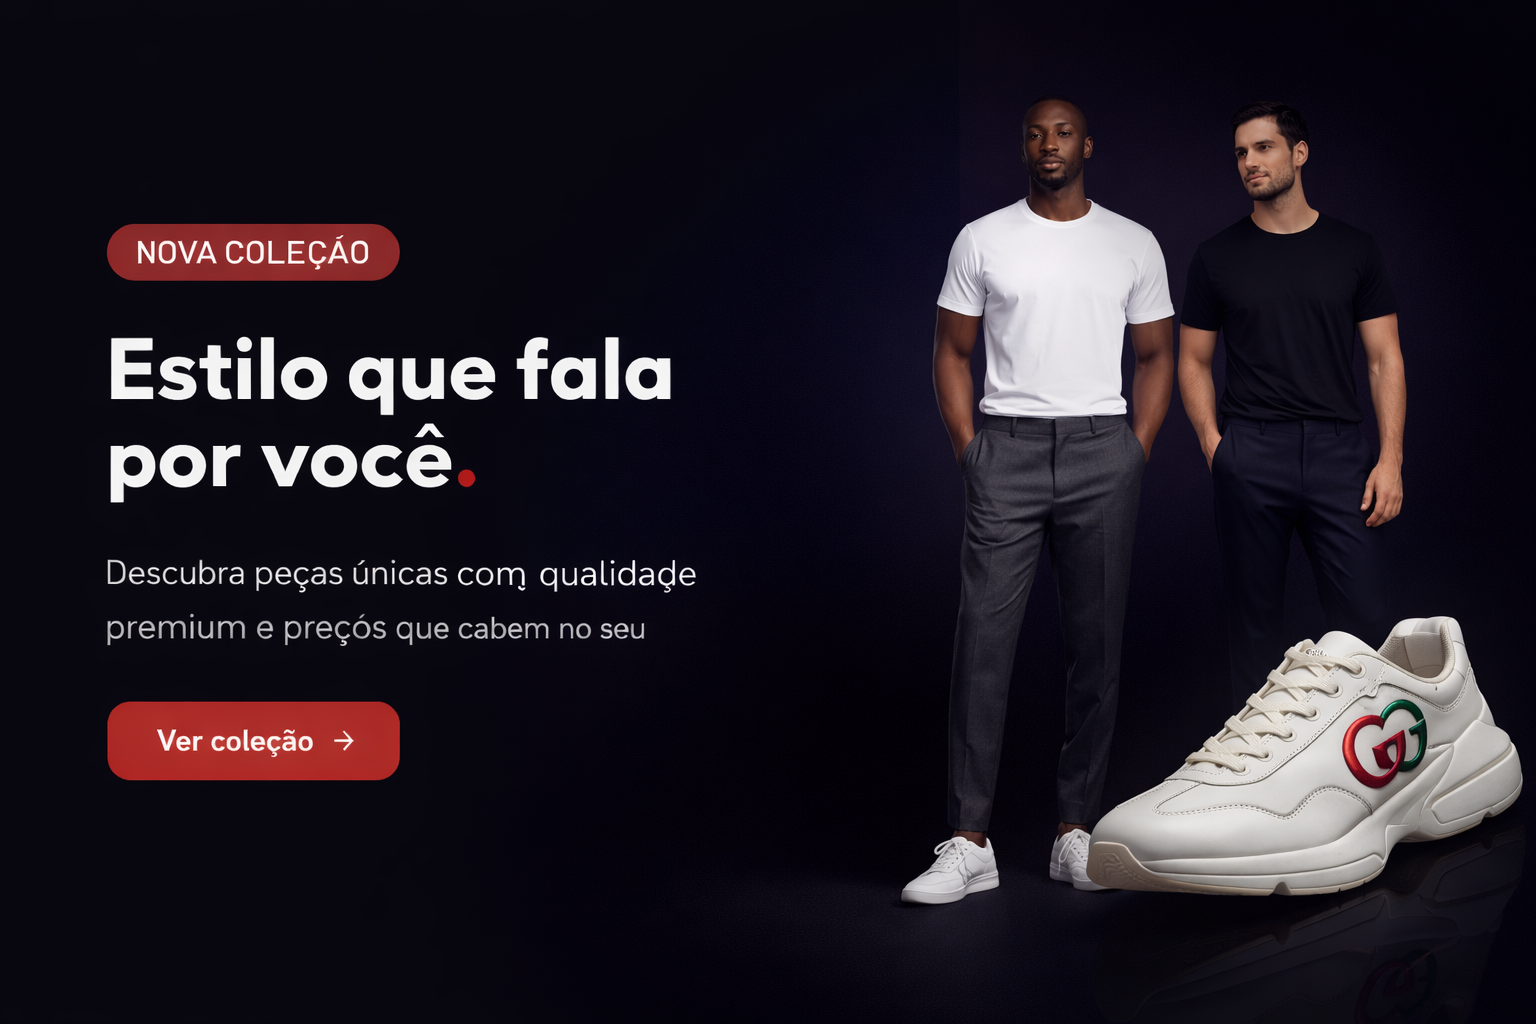
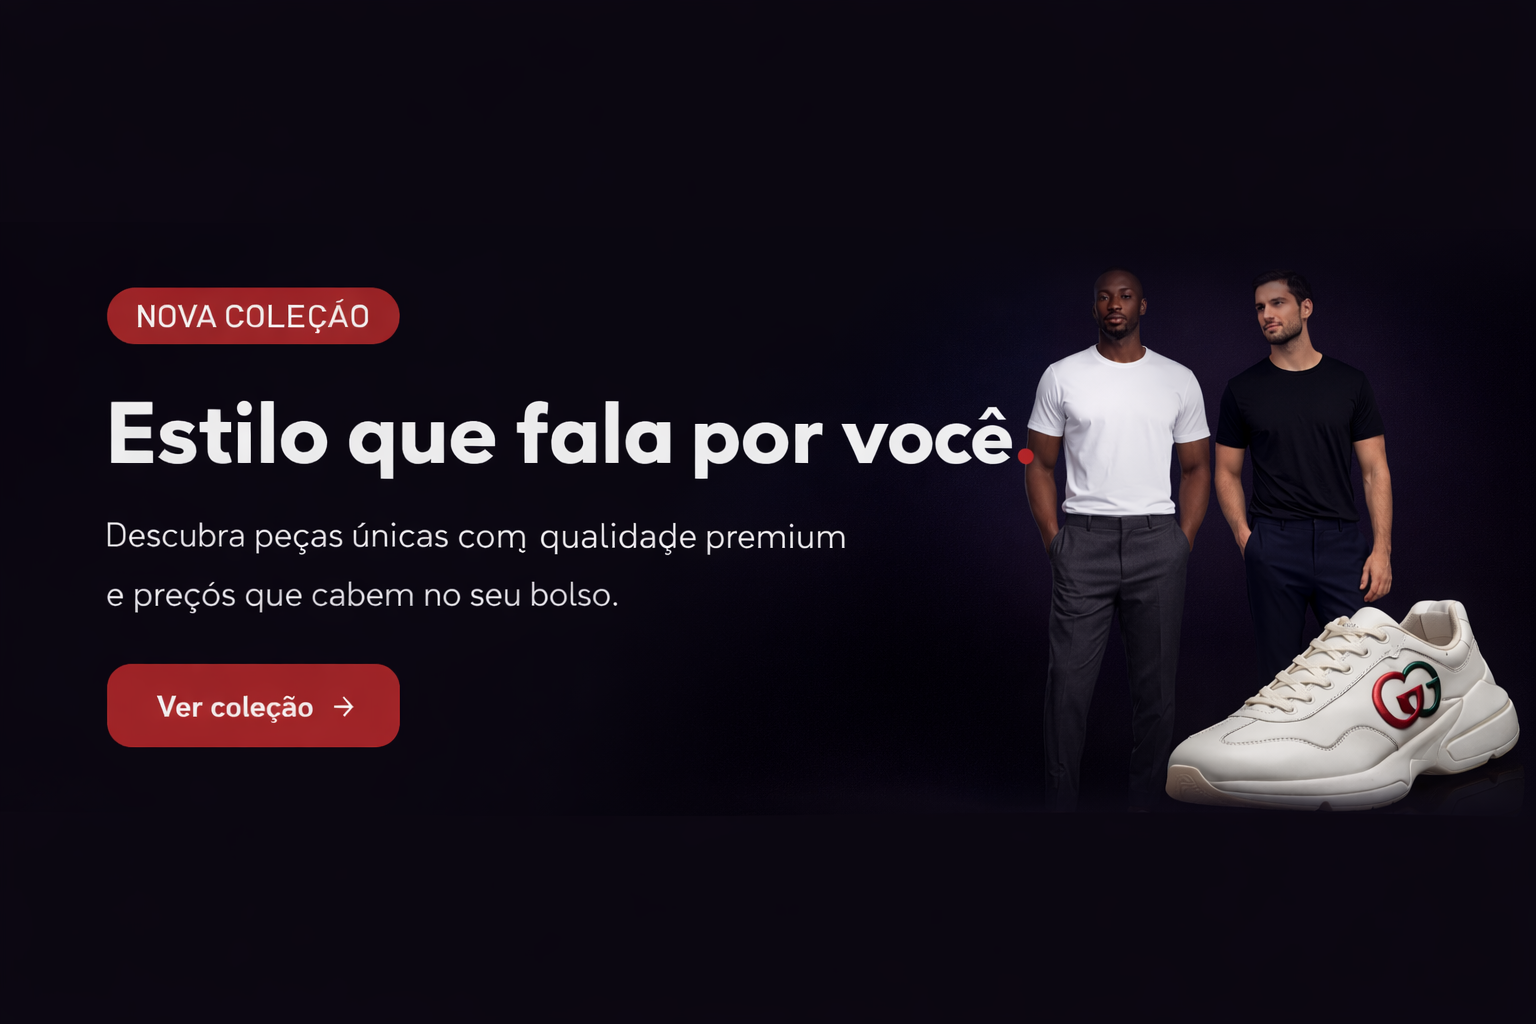
Changes

Changed region(s): [[0.0625, 0.0938, 1.0, 0.9062]]

diff --git a/src/pages/Index.tsx b/src/pages/Index.tsx
@@ -11,11 +11,11 @@ const Index = () => {
   return (
     <div>
       {/* Hero Banner */}
-      <section className="relative overflow-hidden max-h-[220px] md:max-h-[380px]">
+      <section className="relative overflow-hidden">
         <img
           src="/images/banner-nova-colecao.png"
           alt="Nova Coleção - Estilo que fala por você"
-          className="w-full h-full object-cover"
+          className="w-full h-auto object-contain max-h-[280px] md:max-h-[420px]"
         />
       </section>
 
